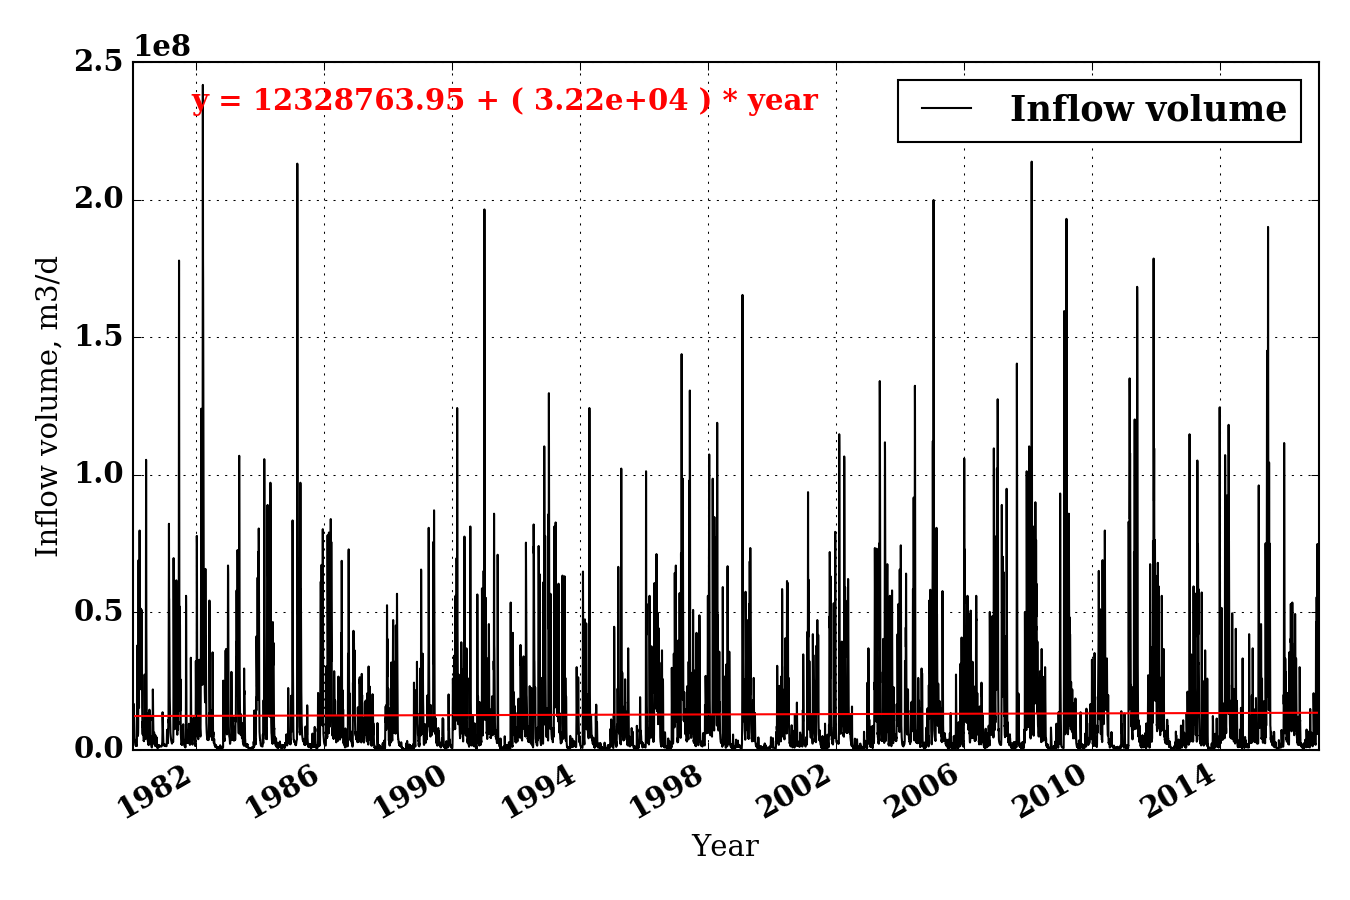
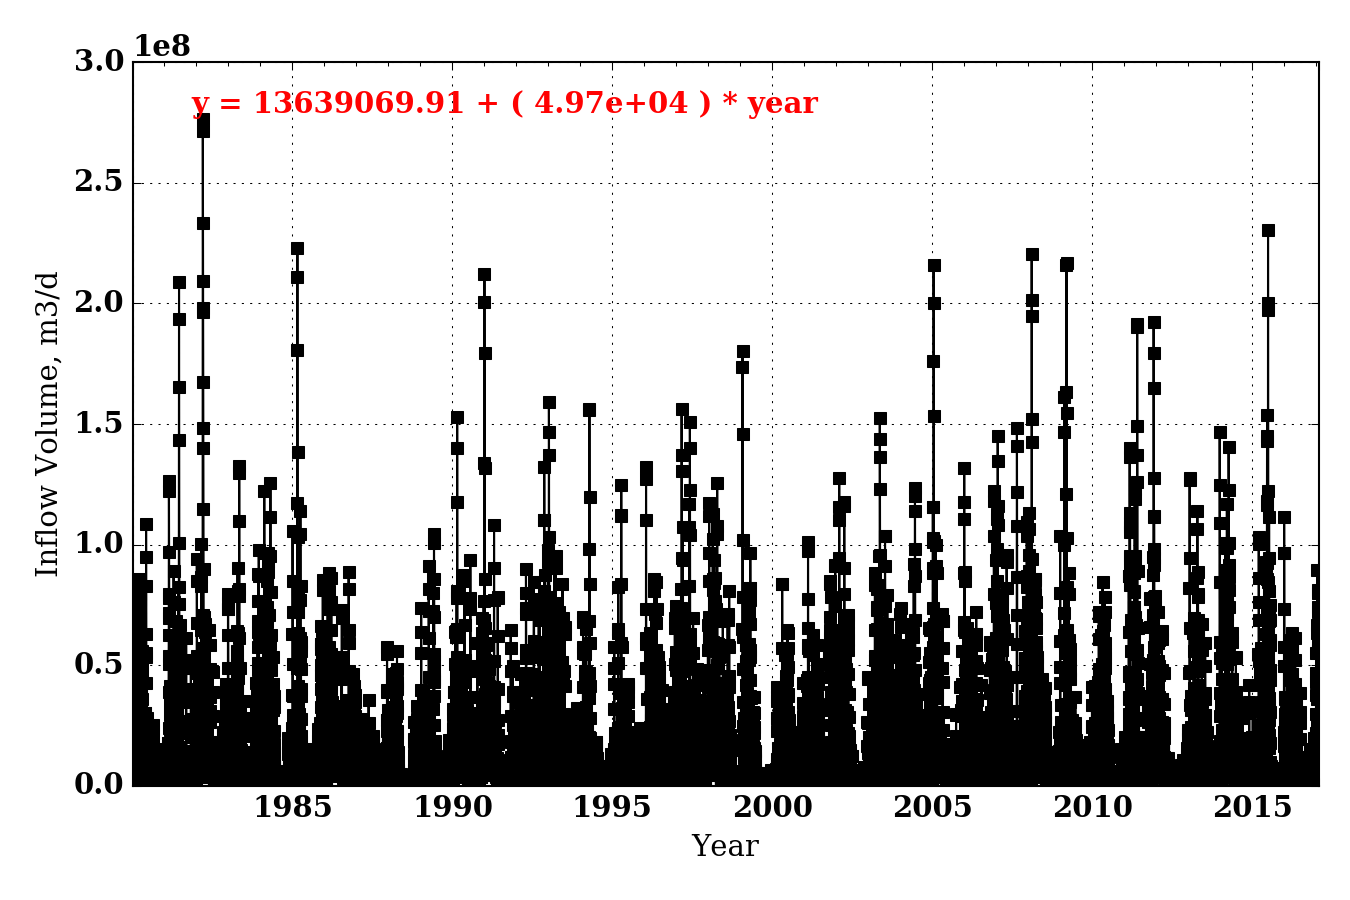
updated

diff --git a/post_proc_scripts/ploting.py b/post_proc_scripts/ploting.py
@@ -9,7 +9,7 @@ import statsmodels.formula.api as sm
 
 plt.style.use('classic')
 
-save_fig = False
+save_fig = True
 
 
 def linear_fit(df, column):
@@ -36,9 +36,9 @@ def plot_graphs(df, column, lgnd, units, lines=True):
     graph_size(9, 6)
     df = df[period[0]:period[1]][np.isfinite(df[column])]
     if lines:
-        df[period[0]:period[1]].plot(y=column, color='k')
+        df[period[0]:period[1]].plot(y=column, style='ks-', legend=False)
     else:
-        df[period[0]:period[1]].plot(y=column, style='ko')
+        df[period[0]:period[1]].plot(y=column, style='ko', legend=False)
     result = linear_fit(df, column)
     prstd, iv_l, iv_u = wls_prediction_std(result)
     x = df[period[0]:period[1]].index.to_pydatetime()
@@ -50,6 +50,7 @@ def plot_graphs(df, column, lgnd, units, lines=True):
     plt.plot(x, result.fittedvalues.values, 'r')
     lin_fit_str = r'y = %.2f + ( %.2e ) * year' % (result.params[0], result.params[1] * 365)
     plt.annotate(lin_fit_str, xy=(0.05, 0.93), xycoords='axes fraction', color='r')
+    # plt.legend.remove()
     # fig.subplots_adjust(top=0.85)
     # ax.text(2, 2, r'an equation: $E=mc^2$', fontsize=15)
     # ax.axis([0, 10, 0, 10])
@@ -104,15 +105,68 @@ def plotting_weather_wester_basin():
     plot_graphs(df, r'inflow', r'Inflow volume', 'm3/d')
     df = load_data(r'../measurements/Excel Files/task 3/Maumee River/4192500.csv', encoding="ISO-8859-1")
     df.rename(columns={r'*Orthophosphate, water, filtered, as PO4 [mg m-3]': 'PO4'}, inplace=True)
-    plot_graphs(df, r'PO4', r'PO4', 'mg/m3', lines=False)
+    plot_graphs(df, r'PO4', r'PO4', 'mg/m3', lines=True)
     df.rename(columns={r'Inflow concentration as NH4 [mg m-3]': 'NH4'}, inplace=True)
-    plot_graphs(df, r'NH4', r'NH4', 'mg/m3', lines=False)
+    plot_graphs(df, r'NH4', r'NH4', 'mg/m3', lines=True)
     df.rename(columns={r'*Suspended sediment concentration [mg m-3]': 'Suspended'}, inplace=True)
-    plot_graphs(df, r'Suspended', r'Suspended sediment concentration', 'mg/m3', lines=False)
-
+    plot_graphs(df, r'Suspended', r'Suspended sediment concentration', 'mg/m3', lines=True)
+    df = load_data(r'../measurements/Excel Files/task 3/Maumee River/4193490_temp.csv', encoding="ISO-8859-1")
+    df.rename(columns={r'Inflow temperature [°C]': 'inflowT'}, inplace=True)
+    df.rename(columns={r'Inflow concentration of O2 [mg m-3]': 'inflowO2'}, inplace=True)
+    df.rename(columns={r'Inflow pH [-]': 'inflowpH'}, inplace=True)
+    plot_graphs(df, r'inflowT', r'Inflow Temperature', 'C')
+    plot_graphs(df, r'inflowO2', r'Inflow O2', 'mg/m3', lines=True)
+    plot_graphs(df, r'inflowpH', r'Inflow pH', '-', lines=True)
+    df = load_data(r'../measurements/Excel Files/task 3/Maumee River/4193500_discharge.csv', encoding="ISO-8859-1")
+    df.rename(columns={r'Inflow volume [m3 d-1]': 'inflowV'}, inplace=True)
+    df.rename(columns={r'Suspended sediment concentration [mg m-3]': 'inflowSusp'}, inplace=True)
+    plot_graphs(df, r'inflowV', r'Inflow Volume', 'm3/d')
+    plot_graphs(df, r'inflowSusp', r'Inflow Suspended sediment', 'mg/m3', lines=True)
+    df = load_data(r'../measurements/Excel Files/task 3/Maumee River/4193500.csv', encoding="ISO-8859-1")
+    df.rename(columns={r'Inflow temperature [°C]': 'inflowT'}, inplace=True)
+    plot_graphs(df, r'inflowT', r'Inflow Temperature', 'C')
+    df.rename(columns={r'Inflow pH [-]': 'inflowpH'}, inplace=True)
+    plot_graphs(df, r'inflowpH', r'Inflow pH', '-', lines=True)
+    df.rename(columns={r'Suspended sediment concentration [mg m-3]': 'inflowSusp'}, inplace=True)
+    df.rename(columns={r'Inflow concentration of O2 [mg m-3]': 'inflowO2'}, inplace=True)
+    df.rename(columns={r'*Suspended solids, water, unfiltered [mg m-3]': 'inflowSuspUnfilt'}, inplace=True)
+    plot_graphs(df, r'inflowO2', r'Inflow O2', 'mg/m3')
+    # plot_graphs(df, r'inflowSuspUnfilt', r'Inflow Suspended solids, unfiltered', 'mg/m3')
+    df.rename(columns={r'*Phosphorus, water, unfiltered, as phosphorus [mg m-3]': 'inflowP'}, inplace=True)
+    plot_graphs(df, r'inflowP', r'Inflow P, unfiltered', 'mg/m3',lines=True)
+    df.rename(columns={r'* Phosphorus, water, filtered, as phosphorus [mg m-3]': 'inflowPfil'}, inplace=True)
+    df.rename(columns={r'* Orthophosphate, water, filtered,  as phosphorus [mg m-3]': 'inflowPO4filA'}, inplace=True)
+    df.rename(columns={r'Inflow concentration of dissolved organic carbon (DOC) [mg m-3]': 'inflowDOC'}, inplace=True)
+    df.rename(columns={r'Inflow concentration of dissolved inorganic carbon (DIC) [mg m-3]': 'inflowDIC'}, inplace=True)
+    df.rename(columns={r'Inflow concentration of Ca2+ [mg m-3]': 'inflowCa'}, inplace=True)
+    df.rename(columns={r'Inflow concentration of SO4 [mg m-3]': 'inflowSO4'}, inplace=True)
+    df.rename(columns={r'Inflow concentration of dissolved silica [mg m-3]': 'inflowDSi'}, inplace=True)
+    df.rename(columns={r'Inflow concentration of dissolved silica [mg m-3]': 'inflowDSi'}, inplace=True)
+    df.rename(columns={r'*Orthophosphate, water, filtered, as PO4 [mg m-3]': 'inflowPO4fil'}, inplace=True)
+    df.rename(columns={r'*Iron, suspended sediment, recoverable [mg m-3]': 'inflowFeSuspSed'}, inplace=True)
+    df.rename(columns={r'*Iron, water, unfiltered, recoverable [mg m-3]': 'inflowFe'}, inplace=True)
+    df.rename(columns={r'*Iron, water, filtered [mg m-3]': 'inflowFefil'}, inplace=True)
+    df.rename(columns={r'Inflow concentration of aluminum (Al3+) [mg m-3]': 'inflowAl'}, inplace=True)
+    df.rename(columns={r'Inflow concentration of chlorophyll-a (Chla-P) [mg m-3]': 'inflowChlP'}, inplace=True)
+    df.rename(columns={r'Inflow concentration of NH4 [mg m-3]': 'inflowNH4'}, inplace=True)
+    df.rename(columns={r'Inflow concentration of NO3 [mg m-3]': 'inflowNO3'}, inplace=True)
+    plot_graphs(df, r'inflowPO4filA', r'Inflow P, filtered', 'mg/m3',lines=True)
+    plot_graphs(df, r'inflowPfil', r'Inflow P, filtered', 'mg/m3',lines=True)
+    plot_graphs(df, r'inflowDOC', r'Inflow DOC', 'mg/m3',lines=True)
+    plot_graphs(df, r'inflowDIC', r'Inflow DIC', 'mg/m3',lines=True)
+    plot_graphs(df, r'inflowCa', r'Inflow Ca2+', 'mg/m3',lines=True)
+    plot_graphs(df, r'inflowSO4', r'Inflow SO4', 'mg/m3',lines=True)
+    df.inflowDSi[df.inflowDSi>450000]=0
+    plot_graphs(df, r'inflowDSi', r'Inflow dSi', 'mg/m3',lines=True)
+    plot_graphs(df, r'inflowPO4fil', r'Inflow PO4', 'mg/m3',lines=True)
+    plot_graphs(df, r'inflowFeSuspSed', r'Inflow Fe suspended sediments', 'mg/m3',lines=True)
+    plot_graphs(df, r'inflowFe', r'Inflow Fe', 'mg/m3',lines=True)
+    plot_graphs(df, r'inflowFefil', r'Inflow Fe filtered', 'mg/m3',lines=True)
+    plot_graphs(df, r'inflowAl', r'Inflow Al3+', 'mg/m3',lines=True)
+    plot_graphs(df, r'inflowChlP', r'Inflow chlorophyll-a (Chla-P)', 'mg/m3',lines=True)
+    plot_graphs(df, r'inflowNH4', r'Inflow NH4', 'mg/m3',lines=True)
+    plot_graphs(df, r'inflowNO3', r'Inflow NO3', 'mg/m3',lines=True)
 
 if __name__ == '__main__':
-    # plotting_weather_wester_basin()
-    df = load_data(r'../measurements/Excel Files/task 3/Maumee River/4192500.csv', encoding="ISO-8859-1")
-    df.rename(columns={r'*Suspended sediment concentration [mg m-3]': 'Suspended'}, inplace=True)
-    plot_graphs(df, r'Suspended', r'Suspended sediment concentration', 'mg/m3', lines=False)
+    plotting_weather_wester_basin()
+
